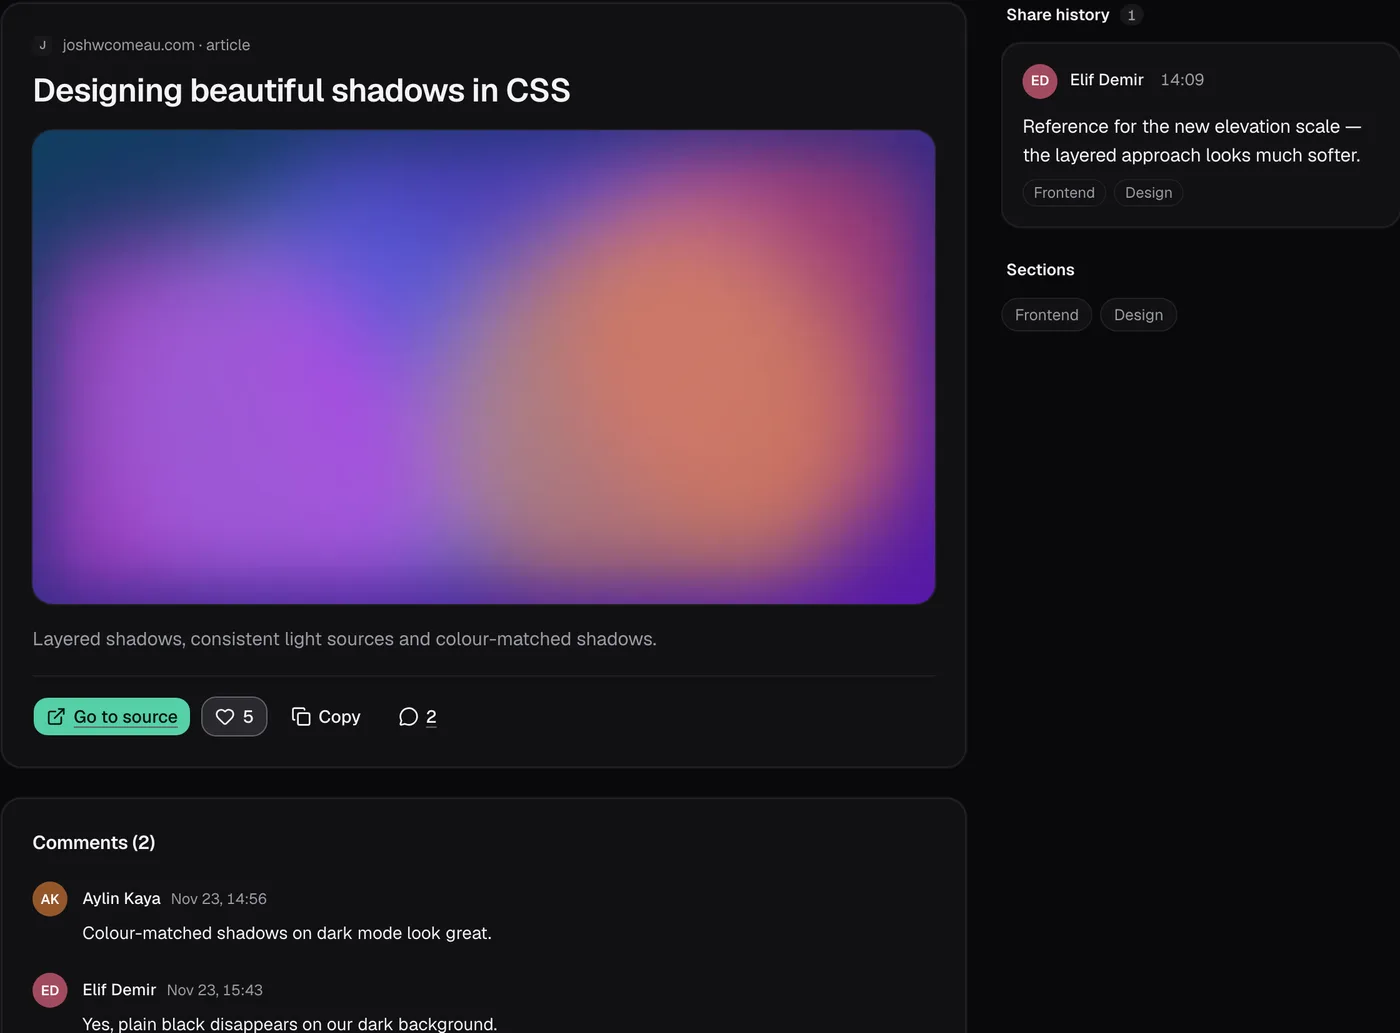
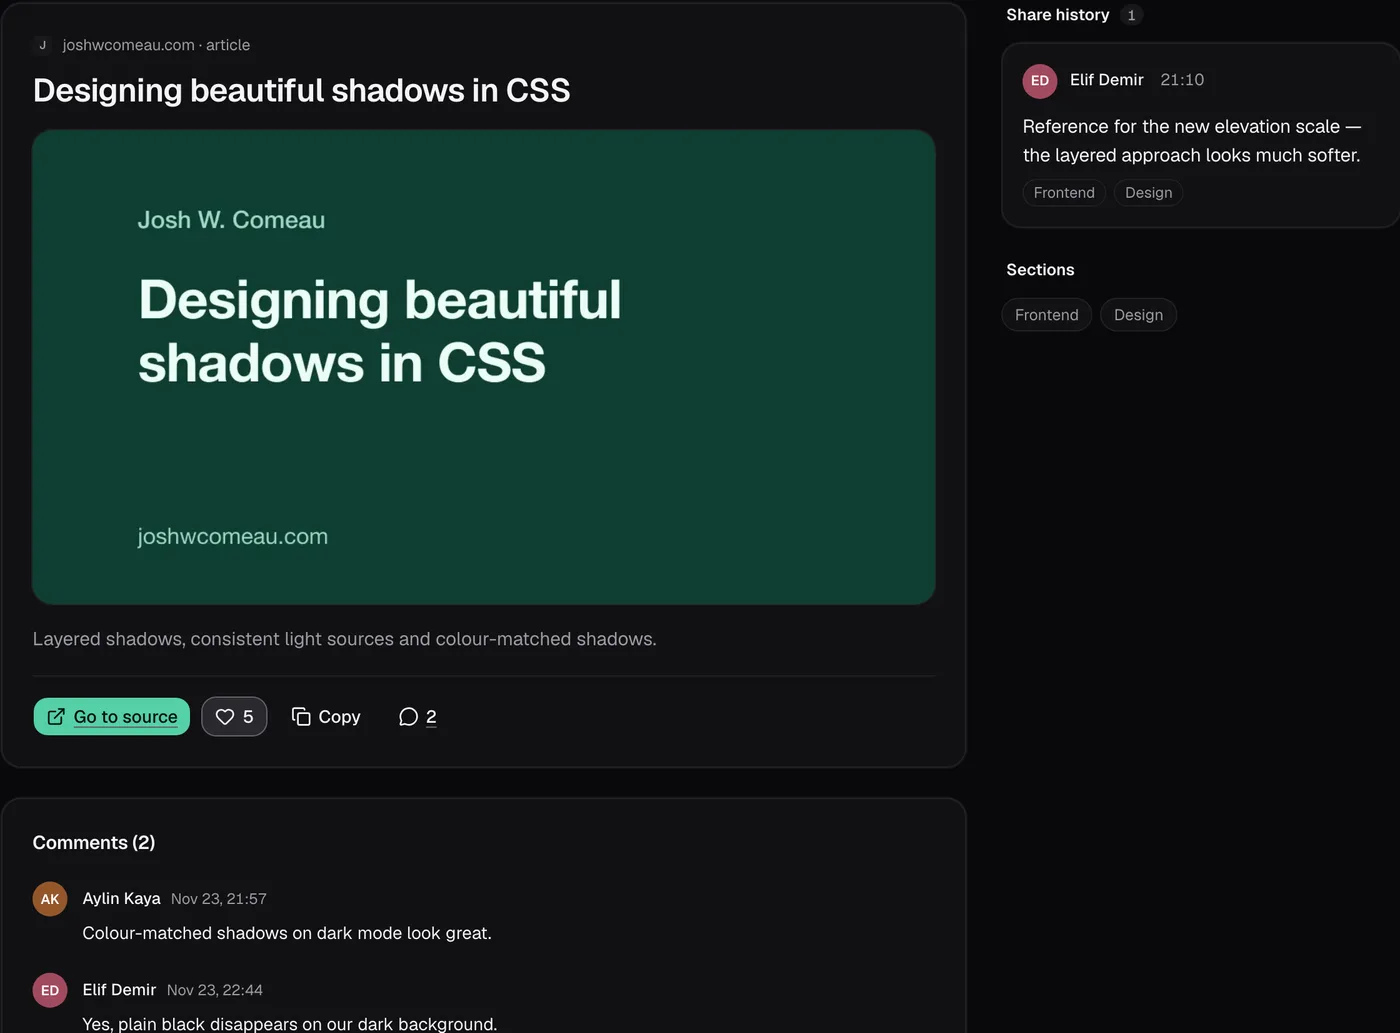
feat(site): replace the gradient demo thumbnails with flat link cards
The demo thumbnails from pnpm seed:demo were blurred colour gradients, and
on izgah.com they read as generated. They are now flat cards like real
sites' social images: a solid tone, the site name and the title, a play
button on videos and the language and stars on repositories, with text
kept clear of the edges the feed crops. The site and README screenshots
are retaken from the reseeded data, and image URLs carry a version so
browsers fetch the new ones at once.

Changed region(s): [[0.0, 0.1239, 0.6757, 0.5886], [0.8293, 0.062, 0.86, 0.0929]]

diff --git a/site/tr/index.html b/site/tr/index.html
@@ -21,8 +21,8 @@
 			type="font/woff2"
 			crossorigin
 		/>
-		<link rel="stylesheet" href="../palette.css?v=2026-11-27-3" />
-		<link rel="stylesheet" href="../styles.css?v=2026-11-27-3" />
+		<link rel="stylesheet" href="../palette.css?v=2026-11-27-4" />
+		<link rel="stylesheet" href="../styles.css?v=2026-11-27-4" />
 		<meta property="og:title" content="İzgah — küçük ekipler için ortak link kütüphanesi" />
 		<meta
 			property="og:description"
@@ -32,7 +32,7 @@
 		<meta property="og:url" content="https://izgah.com/tr/" />
 		<meta property="og:locale" content="tr_TR" />
 		<meta name="twitter:card" content="summary_large_image" />
-		<script src="../site.js?v=2026-11-27-3" defer></script>
+		<script src="../site.js?v=2026-11-27-4" defer></script>
 	</head>
 	<body>
 		<svg width="0" height="0" style="position: absolute" aria-hidden="true">
@@ -167,22 +167,22 @@
 							<picture>
 								<source
 									media="(max-width: 720px) and (prefers-color-scheme: dark)"
-									srcset="../assets/shots/mobile-tr-dark.webp"
+									srcset="../assets/shots/mobile-tr-dark.webp?v=4"
 									width="780"
 									height="1688"
 								/>
 								<source
 									media="(max-width: 720px)"
-									srcset="../assets/shots/mobile-tr-light.webp"
+									srcset="../assets/shots/mobile-tr-light.webp?v=4"
 									width="780"
 									height="1688"
 								/>
 								<source
 									media="(prefers-color-scheme: dark)"
-									srcset="../assets/shots/feed-tr-dark.webp"
+									srcset="../assets/shots/feed-tr-dark.webp?v=4"
 								/>
 								<img
-									src="../assets/shots/feed-tr-light.webp"
+									src="../assets/shots/feed-tr-light.webp?v=4"
 									width="2000"
 									height="1250"
 									alt="İzgah akışı: bölümlerin listelendiği bir kenar çubuğu ve dün paylaşılan linkler; her birinde üyenin avatarı ve notu, site, başlık, açıklama ve önizleme görseliyle bir link kartı, bölüm etiketleri, yorumlar ve beğeniler."
@@ -193,11 +193,11 @@
 						<picture>
 							<source
 								media="(prefers-color-scheme: dark)"
-								srcset="../assets/shots/mobile-tr-dark.webp"
+								srcset="../assets/shots/mobile-tr-dark.webp?v=4"
 							/>
 							<img
 								class="phone"
-								src="../assets/shots/mobile-tr-light.webp"
+								src="../assets/shots/mobile-tr-light.webp?v=4"
 								width="780"
 								height="1688"
 								alt="Aynı akış telefonda, altta bir sekme çubuğuyla."
@@ -238,10 +238,10 @@
 								<picture>
 									<source
 										media="(prefers-color-scheme: dark)"
-										srcset="../assets/shots/resource-tr-dark.webp"
+										srcset="../assets/shots/resource-tr-dark.webp?v=4"
 									/>
 									<img
-										src="../assets/shots/resource-tr-light.webp"
+										src="../assets/shots/resource-tr-light.webp?v=4"
 										width="1400"
 										height="1033"
 										alt="Bir linkin sayfası: kapak görseli, kaynağa git düğmesi, beğeniler, paylaşım geçmişi ve tartışma."
@@ -287,10 +287,10 @@
 								<picture>
 									<source
 										media="(prefers-color-scheme: dark)"
-										srcset="../assets/shots/popup-tr-dark.webp"
+										srcset="../assets/shots/popup-tr-dark.webp?v=4"
 									/>
 									<img
-										src="../assets/shots/popup-tr-light.webp"
+										src="../assets/shots/popup-tr-light.webp?v=4"
 										width="800"
 										height="1146"
 										alt="Eklentinin açılır penceresi: paylaşılan sayfa bir bağlantı kartı olarak, bir not, Frontend ve Tasarım seçili bölüm çipleri, içerik türü ve İz bırak düğmesi."
@@ -315,10 +315,10 @@
 								<picture>
 									<source
 										media="(prefers-color-scheme: dark)"
-										srcset="../assets/shots/palette-tr-dark.webp"
+										srcset="../assets/shots/palette-tr-dark.webp?v=4"
 									/>
 									<img
-										src="../assets/shots/palette-tr-light.webp"
+										src="../assets/shots/palette-tr-light.webp?v=4"
 										width="1100"
 										height="836"
 										alt="Komut paleti css için arama yapıyor; eşleşen linkler vurgulu."
@@ -384,10 +384,10 @@
 								<picture>
 									<source
 										media="(prefers-color-scheme: dark)"
-										srcset="../assets/shots/mobile-tr-dark.webp"
+										srcset="../assets/shots/mobile-tr-dark.webp?v=4"
 									/>
 									<img
-										src="../assets/shots/mobile-tr-light.webp"
+										src="../assets/shots/mobile-tr-light.webp?v=4"
 										width="780"
 										height="1688"
 										alt=""

diff --git a/site/index.html b/site/index.html
@@ -21,8 +21,8 @@
 			type="font/woff2"
 			crossorigin
 		/>
-		<link rel="stylesheet" href="./palette.css?v=2026-11-27-3" />
-		<link rel="stylesheet" href="./styles.css?v=2026-11-27-3" />
+		<link rel="stylesheet" href="./palette.css?v=2026-11-27-4" />
+		<link rel="stylesheet" href="./styles.css?v=2026-11-27-4" />
 		<meta property="og:title" content="Izgah — a shared link library for small teams" />
 		<meta
 			property="og:description"
@@ -31,7 +31,7 @@
 		<meta property="og:image" content="https://izgah.com/assets/og.png" />
 		<meta property="og:url" content="https://izgah.com/" />
 		<meta name="twitter:card" content="summary_large_image" />
-		<script src="./site.js?v=2026-11-27-3" defer></script>
+		<script src="./site.js?v=2026-11-27-4" defer></script>
 	</head>
 	<body>
 		<svg width="0" height="0" style="position: absolute" aria-hidden="true">
@@ -166,22 +166,22 @@
 							<picture>
 								<source
 									media="(max-width: 720px) and (prefers-color-scheme: dark)"
-									srcset="./assets/shots/mobile-en-dark.webp"
+									srcset="./assets/shots/mobile-en-dark.webp?v=4"
 									width="780"
 									height="1688"
 								/>
 								<source
 									media="(max-width: 720px)"
-									srcset="./assets/shots/mobile-en-light.webp"
+									srcset="./assets/shots/mobile-en-light.webp?v=4"
 									width="780"
 									height="1688"
 								/>
 								<source
 									media="(prefers-color-scheme: dark)"
-									srcset="./assets/shots/feed-en-dark.webp"
+									srcset="./assets/shots/feed-en-dark.webp?v=4"
 								/>
 								<img
-									src="./assets/shots/feed-en-light.webp"
+									src="./assets/shots/feed-en-light.webp?v=4"
 									width="2000"
 									height="1250"
 									alt="The Izgah feed: a sidebar with sections, and links shared yesterday, each with the member's avatar and note, a link card with the site, title, description and preview image, section tags, comments and likes."
@@ -192,11 +192,11 @@
 						<picture>
 							<source
 								media="(prefers-color-scheme: dark)"
-								srcset="./assets/shots/mobile-en-dark.webp"
+								srcset="./assets/shots/mobile-en-dark.webp?v=4"
 							/>
 							<img
 								class="phone"
-								src="./assets/shots/mobile-en-light.webp"
+								src="./assets/shots/mobile-en-light.webp?v=4"
 								width="780"
 								height="1688"
 								alt="The same feed on a phone, with a tab bar at the bottom."
@@ -235,10 +235,10 @@
 								<picture>
 									<source
 										media="(prefers-color-scheme: dark)"
-										srcset="./assets/shots/resource-en-dark.webp"
+										srcset="./assets/shots/resource-en-dark.webp?v=4"
 									/>
 									<img
-										src="./assets/shots/resource-en-light.webp"
+										src="./assets/shots/resource-en-light.webp?v=4"
 										width="1400"
 										height="1033"
 										alt="A link's page with its cover image, a Go to source button, likes, the share history and the discussion."
@@ -284,10 +284,10 @@
 								<picture>
 									<source
 										media="(prefers-color-scheme: dark)"
-										srcset="./assets/shots/popup-en-dark.webp"
+										srcset="./assets/shots/popup-en-dark.webp?v=4"
 									/>
 									<img
-										src="./assets/shots/popup-en-light.webp"
+										src="./assets/shots/popup-en-light.webp?v=4"
 										width="800"
 										height="1146"
 										alt="The extension popup: the page being shared as a link card, a note, section chips with Frontend and Design selected, the content type and an Add a link button."
@@ -312,10 +312,10 @@
 								<picture>
 									<source
 										media="(prefers-color-scheme: dark)"
-										srcset="./assets/shots/palette-en-dark.webp"
+										srcset="./assets/shots/palette-en-dark.webp?v=4"
 									/>
 									<img
-										src="./assets/shots/palette-en-light.webp"
+										src="./assets/shots/palette-en-light.webp?v=4"
 										width="1100"
 										height="836"
 										alt="The command palette searching for css, with matching links highlighted."
@@ -379,10 +379,10 @@
 								<picture>
 									<source
 										media="(prefers-color-scheme: dark)"
-										srcset="./assets/shots/mobile-en-dark.webp"
+										srcset="./assets/shots/mobile-en-dark.webp?v=4"
 									/>
 									<img
-										src="./assets/shots/mobile-en-light.webp"
+										src="./assets/shots/mobile-en-light.webp?v=4"
 										width="780"
 										height="1688"
 										alt=""

diff --git a/scripts/seed-demo.ts b/scripts/seed-demo.ts
@@ -430,24 +430,77 @@ function hashHue(text: string): number {
 	return h % 360;
 }
 
-/** A colourful abstract 1200×630 image per resource (no text, no external assets). */
+/**
+ * Flat 1200×630 link cards like real sites' social images: a solid background from a small set of
+ * quiet tones, the site name and the title in large type, a play button on videos and the language
+ * and stars on repositories. Text keeps clear of the edges, since the feed crops thumbnails. No
+ * gradients, blur or external assets (docs/designs/izgah-ui-v5.md §3.0).
+ */
+const CARD_TONES = [
+	{ bg: '#111113', fg: '#f4f4f5', muted: '#a1a1aa' },
+	{ bg: '#f4f1ea', fg: '#1c1917', muted: '#78716c' },
+	{ bg: '#0f3d33', fg: '#ecfdf5', muted: '#9fd8c4' },
+	{ bg: '#1e2a44', fg: '#e8edf7', muted: '#a3b1cc' },
+	{ bg: '#ffffff', fg: '#18181b', muted: '#71717a' },
+	{ bg: '#3b1f1a', fg: '#fbeee9', muted: '#d6a99c' }
+] as const;
+
+function escapeXml(text: string): string {
+	return text
+		.replaceAll('&', '&amp;')
+		.replaceAll('<', '&lt;')
+		.replaceAll('>', '&gt;')
+		.replaceAll('"', '&quot;');
+}
+
+/** Greedy word wrap to at most `maxLines` lines of about `width` characters. */
+function wrapWords(text: string, width: number, maxLines: number): string[] {
+	const lines: string[] = [];
+	let line = '';
+	for (const word of text.split(/\s+/)) {
+		if (line && (line + ' ' + word).length > width) {
+			lines.push(line);
+			line = word;
+		} else {
+			line = line ? `${line} ${word}` : word;
+		}
+	}
+	if (line) lines.push(line);
+	if (lines.length > maxLines) {
+		const kept = lines.slice(0, maxLines);
+		kept[maxLines - 1] = `${kept[maxLines - 1]}…`;
+		return kept;
+	}
+	return lines;
+}
+
 async function thumbnailFor(share: SeedShare): Promise<Buffer> {
-	const hue = hashHue(share.url);
-	const random = prng(hue + 7);
-	const circles = Array.from({ length: 5 }, (_, i) => {
-		const x = Math.round(random() * 1200);
-		const y = Math.round(random() * 630);
-		const r = Math.round(120 + random() * 260);
-		const h = (hue + i * 47) % 360;
-		return `<circle cx="${x}" cy="${y}" r="${r}" fill="hsl(${h} 80% 60%)" fill-opacity="0.55"/>`;
-	}).join('');
+	const tone = CARD_TONES[hashHue(share.url) % CARD_TONES.length]!;
+	const font = "'Helvetica Neue', Helvetica, Arial, sans-serif";
+	const mono = "Menlo, 'SF Mono', Consolas, monospace";
+	const isRepo = share.type === 'repo';
+	const titleLines = wrapWords(share.title, isRepo ? 21 : 22, 3);
+	const title = titleLines
+		.map(
+			(line, i) =>
+				`<text x="140" y="${250 + i * 84}" font-family="${isRepo ? mono : font}" font-size="${isRepo ? 64 : 72}" font-weight="700" fill="${tone.fg}" letter-spacing="-1">${escapeXml(line)}</text>`
+		)
+		.join('');
+	const footer = isRepo
+		? `<text x="140" y="550" font-family="${font}" font-size="30" fill="${tone.muted}">${escapeXml(
+				[share.meta?.language, share.meta?.stars ? `★ ${Math.round(share.meta.stars / 1000)}k` : '']
+					.filter(Boolean)
+					.join('   ·   ')
+			)}</text>`
+		: `<text x="140" y="550" font-family="${font}" font-size="30" fill="${tone.muted}">${escapeXml(share.domain)}</text>`;
+	const play =
+		share.type === 'video'
+			? `<circle cx="1000" cy="520" r="54" fill="${tone.fg}"/><path d="M984 494 L1028 520 L984 546 Z" fill="${tone.bg}"/>`
+			: '';
 	const svg = `<svg xmlns="http://www.w3.org/2000/svg" width="1200" height="630">
-		<defs><linearGradient id="g" x1="0" y1="0" x2="1" y2="1">
-			<stop offset="0" stop-color="hsl(${hue} 70% 22%)"/>
-			<stop offset="1" stop-color="hsl(${(hue + 60) % 360} 75% 38%)"/>
-		</linearGradient><filter id="b"><feGaussianBlur stdDeviation="60"/></filter></defs>
-		<rect width="1200" height="630" fill="url(#g)"/>
-		<g filter="url(#b)">${circles}</g>
+		<rect width="1200" height="630" fill="${tone.bg}"/>
+		<text x="140" y="130" font-family="${font}" font-size="32" font-weight="600" fill="${tone.muted}">${escapeXml(share.siteName)}</text>
+		${title}${footer}${play}
 	</svg>`;
 	return sharp(Buffer.from(svg)).png().toBuffer();
 }

diff --git a/docs/designs/izgah-ui-v5.md b/docs/designs/izgah-ui-v5.md
@@ -511,3 +511,4 @@ Work happens on the `feat/ui-v5` branch; `main` receives v5 in one step after M1
 
 *   **2026-11-27 (M10 redone, maintainer):** the first M10 only swapped the site's type and colours and left the Künye page; the maintainer asked for a real redesign. izgah.com now uses real screenshots of the app on the demo data (`site/assets/shots/`, English and Turkish, light and dark, WebP) instead of the hand-set specimen, which is gone with `specimen.js` and the specimen's scheme-pinning selectors in `scripts/tokens/build.ts`. The READMEs use the same screenshots, and the link preview images were retaken.
 *   **2026-11-27 (M9 redone, maintainer):** the first M9 only swapped the extension's font, colours and radii and kept the Künye layouts (notices as text between rules, Settings as an underlined word). The popup and options page are now rebuilt as described in §11, and the toolbar icons use the Jade mark. Store build after the change: zip 90 KB, JavaScript and CSS 28.3 KB gzip.
+*   **2026-11-27 (maintainer):** the demo thumbnails written by `pnpm seed:demo` were blurred colour gradients, which read as generated on izgah.com. They are now flat link cards like real sites' social images (a solid tone, the site name, the title, a play button on videos, language and stars on repositories), with text kept clear of the edges the feed crops; the site and README screenshots were retaken.
